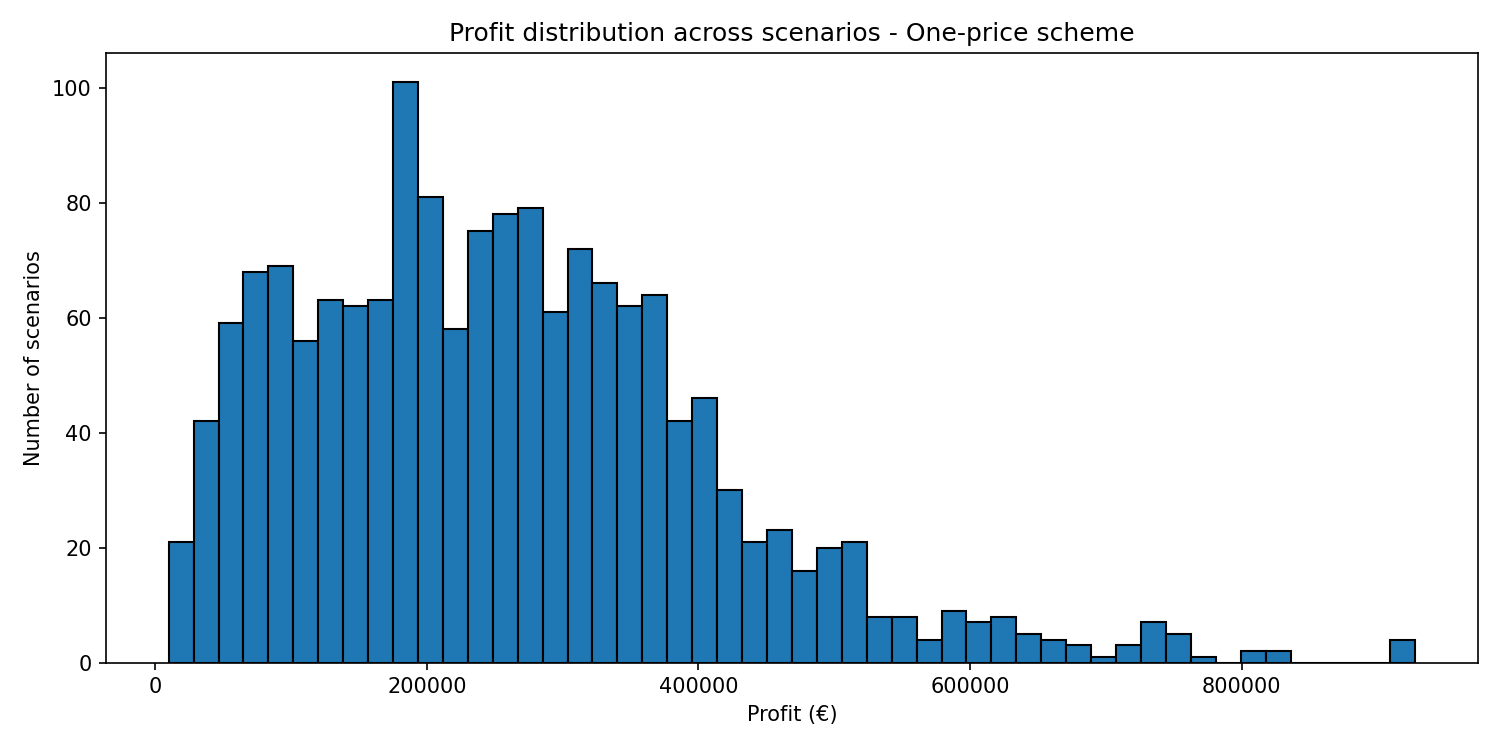
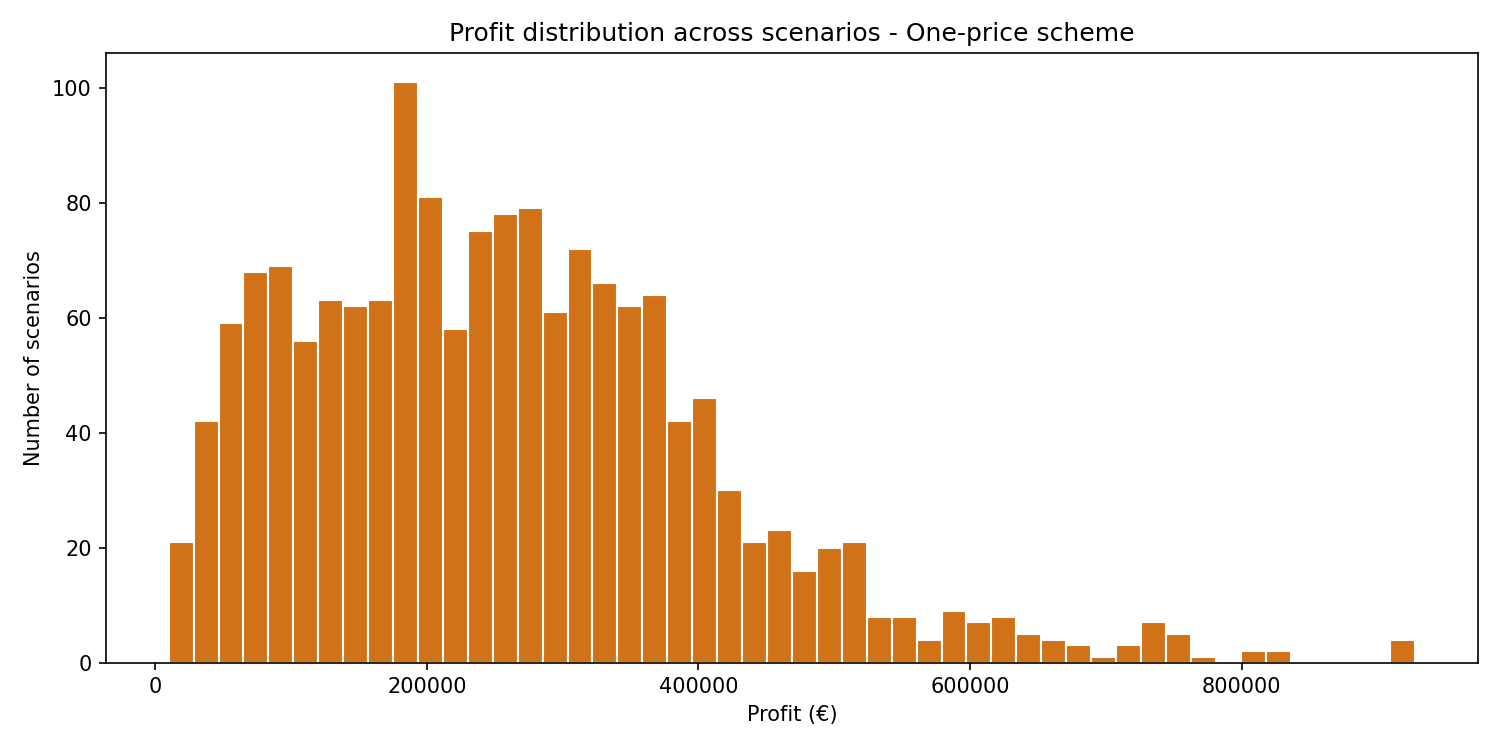
Distribution plot for task 1.1 added

Changed region(s): [[0.092, 0.092, 0.8587, 0.8893], [0.92, 0.828, 0.9507, 0.8893]]

diff --git a/Step1_Task1.py b/Step1_Task1.py
@@ -91,7 +91,7 @@ scenario_profit = {
 profits = list(scenario_profit.values())
 
 plt.figure(figsize=(10, 5))
-plt.hist(profits, bins=50, edgecolor='black')
+plt.hist(profits, bins=50, color="#d17219",edgecolor='white')
 plt.xlabel("Profit (€)")
 plt.ylabel("Number of scenarios")
 plt.title("Profit distribution across scenarios - One-price scheme")
